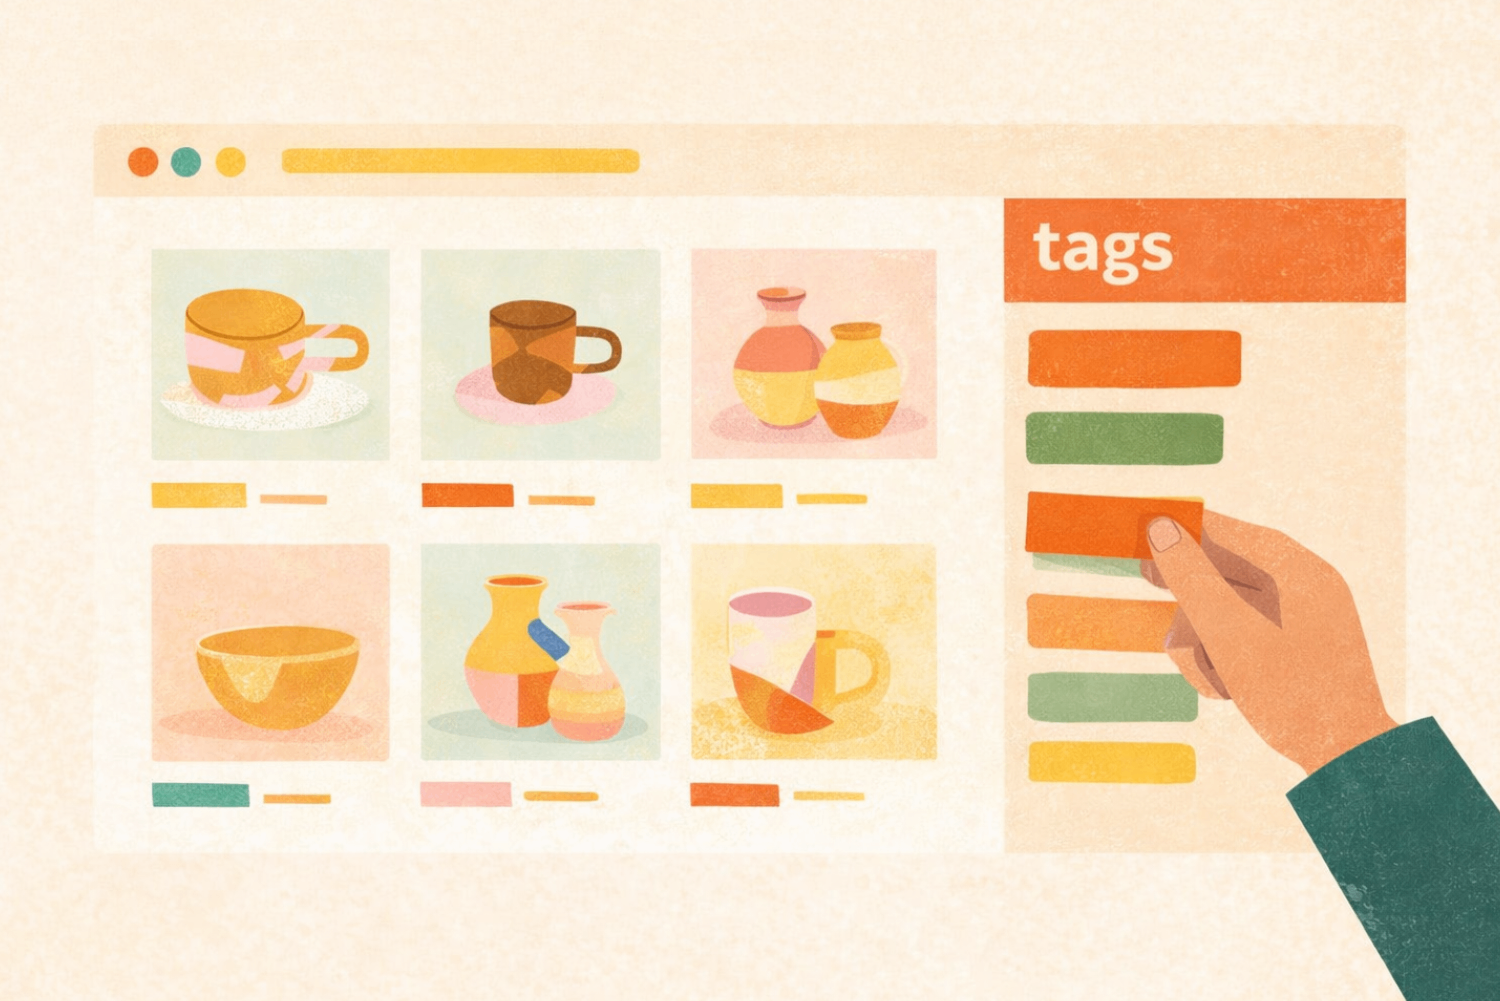
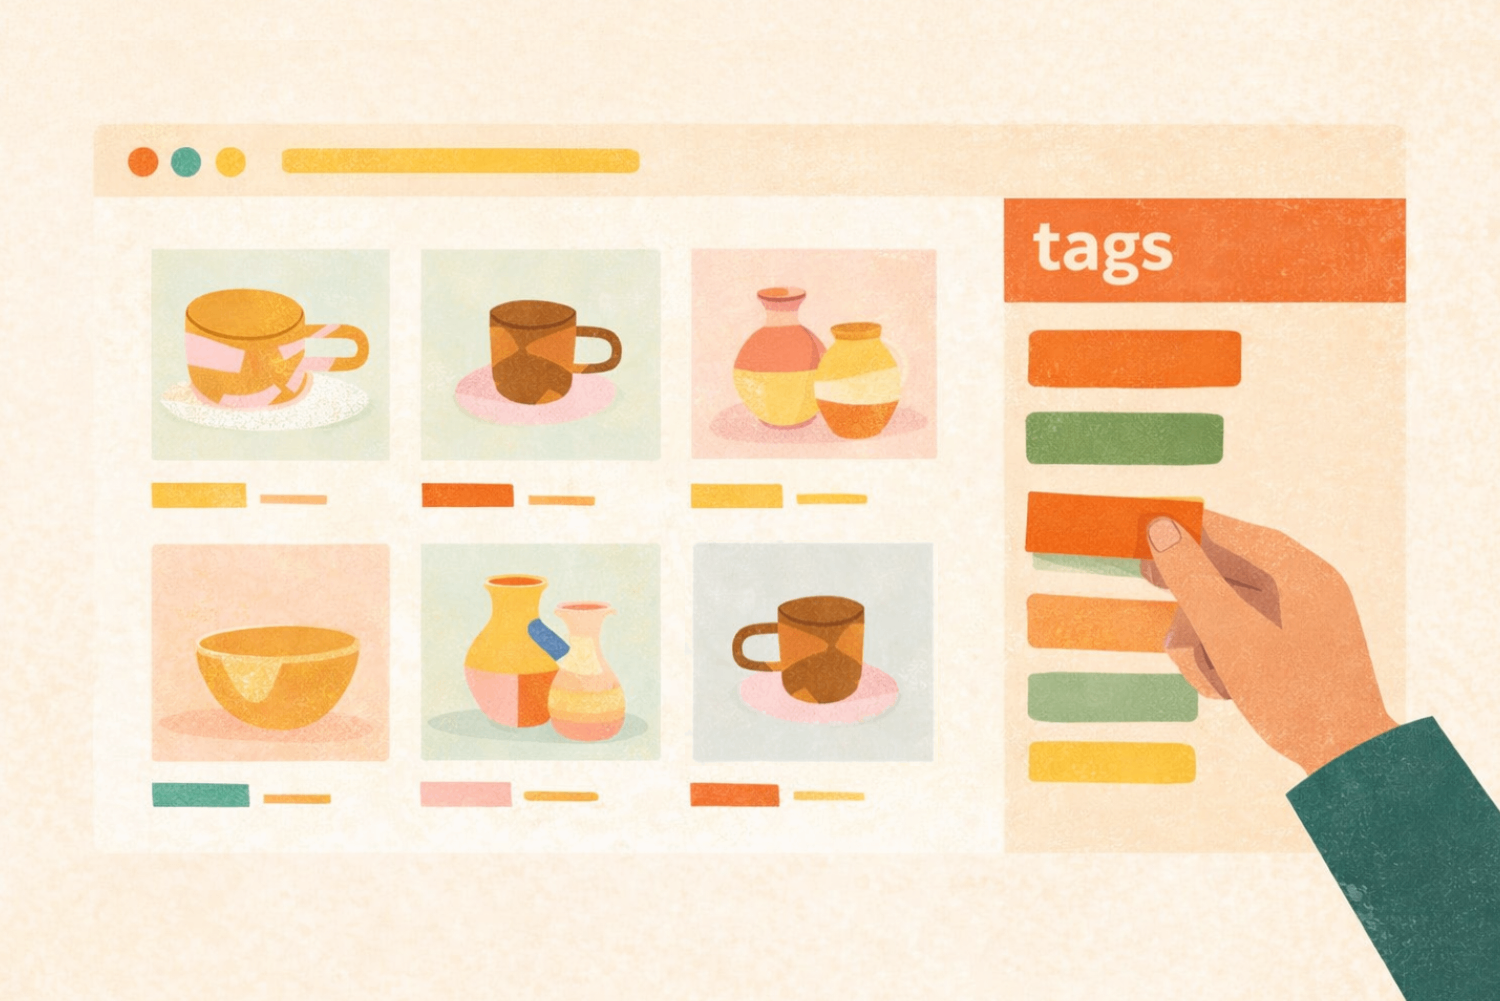
feat: add cta to bottom of blogposts

Changed region(s): [[0.46, 0.5265, 0.644, 0.7742]]

diff --git a/src/components/blog/BlogPostPage.tsx b/src/components/blog/BlogPostPage.tsx
@@ -2,11 +2,13 @@
 
 import Image from "next/image";
 import Link from "next/link";
+import { useRouter } from "next/navigation";
 import { useEffect, useRef, useState } from "react";
 import { motion } from "framer-motion";
 import { ArrowLeft, Calendar } from "lucide-react";
-import type { BlogPost } from "@/content/blog";
+import { DEFAULT_BLOG_BOTTOM_CTA, type BlogPost } from "@/content/blog";
 import SiteFooter from "@/components/shared/SiteFooter";
+import { triggerGeneratorCta } from "@/lib/generatorCta";
 
 function ReadingProgress() {
   const [progress, setProgress] = useState(0);
@@ -42,7 +44,9 @@ type TableOfContentsProps = {
   activeId: string;
 };
 
+const BLOG_OVERVIEW_ID = "post-overview";
 const BLOG_TOC_SCROLL_OFFSET = 104;
+const BLOG_ACTIVE_MARKER_OFFSET = BLOG_TOC_SCROLL_OFFSET + 8;
 
 function TableOfContents({ sections, activeId }: TableOfContentsProps) {
   const scrollTo = (id: string) => {
@@ -83,36 +87,78 @@ type BlogPostPageProps = {
 export default function BlogPostPage({ post }: BlogPostPageProps) {
   const [activeId, setActiveId] = useState("");
   const contentRef = useRef<HTMLDivElement>(null);
+  const router = useRouter();
+  const tocSections = [
+    { id: BLOG_OVERVIEW_ID, level: 2 as const, title: post.title },
+    ...post.sections,
+  ];
+  const cta = post.bottomCta ?? DEFAULT_BLOG_BOTTOM_CTA;
 
   useEffect(() => {
-    const headings = Array.from(
-      contentRef.current?.querySelectorAll<HTMLElement>("h2[id], h3[id]") || [],
-    );
-    if (!headings.length) return;
-
-    const updateActiveHeading = () => {
-      const scrollMarker = BLOG_TOC_SCROLL_OFFSET + 8;
-      const passedHeadings = headings.filter(
-        (heading) => heading.getBoundingClientRect().top <= scrollMarker,
+    const getAnchorPositions = () => {
+      const overview = document.getElementById(BLOG_OVERVIEW_ID);
+      const headings = Array.from(
+        contentRef.current?.querySelectorAll<HTMLElement>("h2[id], h3[id]") || [],
       );
 
-      if (passedHeadings.length > 0) {
-        setActiveId(passedHeadings[passedHeadings.length - 1].id);
-        return;
+      const anchors: Array<{ id: string; top: number }> = [];
+      if (overview) {
+        anchors.push({
+          id: BLOG_OVERVIEW_ID,
+          top: overview.getBoundingClientRect().top + window.scrollY,
+        });
       }
 
-      const firstVisible = headings.find(
-        (heading) => heading.getBoundingClientRect().top > scrollMarker,
-      );
+      for (const heading of headings) {
+        anchors.push({
+          id: heading.id,
+          top: heading.getBoundingClientRect().top + window.scrollY,
+        });
+      }
 
-      setActiveId(firstVisible?.id || headings[0].id);
+      return anchors;
+    };
+
+    const updateActiveHeading = () => {
+      const anchors = getAnchorPositions();
+      if (!anchors.length) return;
+
+      const marker = window.scrollY + BLOG_ACTIVE_MARKER_OFFSET;
+      const firstAnchor = anchors[0];
+      const lastAnchor = anchors[anchors.length - 1];
+      let nextActiveId = firstAnchor.id;
+
+      if (marker < firstAnchor.top) {
+        nextActiveId = firstAnchor.id;
+      } else if (marker >= lastAnchor.top) {
+        nextActiveId = lastAnchor.id;
+      } else {
+        for (let i = 0; i < anchors.length - 1; i += 1) {
+          const current = anchors[i];
+          const next = anchors[i + 1];
+          if (marker >= current.top && marker < next.top) {
+            nextActiveId = current.id;
+            break;
+          }
+        }
+      }
+
+      setActiveId((prev) => (prev === nextActiveId ? prev : nextActiveId));
     };
 
     updateActiveHeading();
+    let timeoutId: number | undefined;
+    const rafId = window.requestAnimationFrame(() => {
+      timeoutId = window.setTimeout(updateActiveHeading, 120);
+    });
     window.addEventListener("scroll", updateActiveHeading, { passive: true });
     window.addEventListener("resize", updateActiveHeading);
 
     return () => {
+      window.cancelAnimationFrame(rafId);
+      if (timeoutId) {
+        window.clearTimeout(timeoutId);
+      }
       window.removeEventListener("scroll", updateActiveHeading);
       window.removeEventListener("resize", updateActiveHeading);
     };
@@ -134,11 +180,12 @@ export default function BlogPostPage({ post }: BlogPostPageProps) {
         <div className="flex gap-12">
           <aside className="hidden w-56 flex-shrink-0 lg:block">
             <div className="sticky top-24">
-              <TableOfContents sections={post.sections} activeId={activeId} />
+              <TableOfContents sections={tocSections} activeId={activeId} />
             </div>
           </aside>
 
           <main className="min-w-0 max-w-2xl flex-1">
+            <div id={BLOG_OVERVIEW_ID} />
             <div className="mb-8">
               <span className="mb-3 block text-xs font-semibold uppercase tracking-wide text-orange-600">
                 {post.category}
@@ -172,6 +219,33 @@ export default function BlogPostPage({ post }: BlogPostPageProps) {
               className="prose-tagsy"
               dangerouslySetInnerHTML={{ __html: post.contentHtml }}
             />
+
+            <section className="mt-12 rounded-2xl border border-orange-200 bg-gradient-to-br from-orange-50 to-white p-6 sm:p-7">
+              {cta.eyebrow ? (
+                <p className="mb-2 text-xs font-semibold uppercase tracking-wide text-orange-600">
+                  {cta.eyebrow}
+                </p>
+              ) : null}
+              <h2 className="mb-2 text-2xl font-bold leading-tight text-stone-900 sm:text-[1.75rem]">
+                {cta.heading}
+              </h2>
+              <p className="mb-5 max-w-xl text-sm leading-relaxed text-stone-600 sm:text-base">
+                {cta.body}
+              </p>
+              <button
+                type="button"
+                onClick={() =>
+                  triggerGeneratorCta({
+                    isHomePage: false,
+                    navigateHome: () => router.push("/"),
+                    requestReset: true,
+                  })
+                }
+                className="inline-flex items-center gap-2 rounded-lg bg-gradient-to-br from-orange-500 to-orange-600 px-5 py-2.5 text-sm font-semibold text-white shadow-[0_3px_14px_rgba(249,115,22,0.3)] transition-all hover:from-orange-600 hover:to-orange-700"
+              >
+                {cta.buttonLabel}
+              </button>
+            </section>
 
             <div className="mt-14 flex items-center justify-between border-t border-stone-200 pt-8">
               <Link

diff --git a/src/content/blog.ts b/src/content/blog.ts
@@ -6,6 +6,13 @@ export type BlogSection = {
   title: string;
 };
 
+export type BlogBottomCta = {
+  eyebrow?: string;
+  heading: string;
+  body: string;
+  buttonLabel: string;
+};
+
 export type BlogPost = {
   slug: string;
   title: string;
@@ -14,6 +21,7 @@ export type BlogPost = {
   category: BlogCategory;
   readTime: string;
   heroImage?: string;
+  bottomCta?: BlogBottomCta;
   contentHtml: string;
   sections: BlogSection[];
 };
@@ -21,6 +29,14 @@ export type BlogPost = {
 const BLOG_IMAGE_1 = `<img src="/blog-inline-1.svg" alt="Tag strategy planning board" />`;
 const BLOG_IMAGE_2 = `<img src="/blog-inline-2.svg" alt="Etsy search trend dashboard" />`;
 const BLOG_IMAGE_PHOTOS = `<img src="/blog-photos-photos-photos.png" alt="Abstract listing photo composition example" />`;
+
+export const DEFAULT_BLOG_BOTTOM_CTA: BlogBottomCta = {
+  eyebrow: "Ready to Put This Into Action?",
+  heading: "Generate better Etsy tags in seconds with Tagloom",
+  body:
+    "Use the Tagloom tag generator to create 13 optimized Etsy tags and turn what you learned into faster listing improvements. Try it now for free.",
+  buttonLabel: "Try it free",
+};
 
 export const BLOG_POSTS: BlogPost[] = [
   {
@@ -32,6 +48,13 @@ export const BLOG_POSTS: BlogPost[] = [
     category: "SEO",
     readTime: "7 min read",
     heroImage: "/blog-how-to-rank-higher-on-etsy-hero.png",
+    bottomCta: {
+      eyebrow: "Ready to Apply This?",
+      heading: "Use the Tagloom tag generator to rank higher on Etsy",
+      body:
+        "Turn what you just learned into action. Generate 13 optimized Etsy tags in seconds and try Tagloom now for free.",
+      buttonLabel: "Try it free",
+    },
     sections: [
       { id: "how-etsy-search-works", level: 2, title: "How Etsy Search Works" },
       { id: "start-with-keywords", level: 2, title: "Start with Keywords" },
